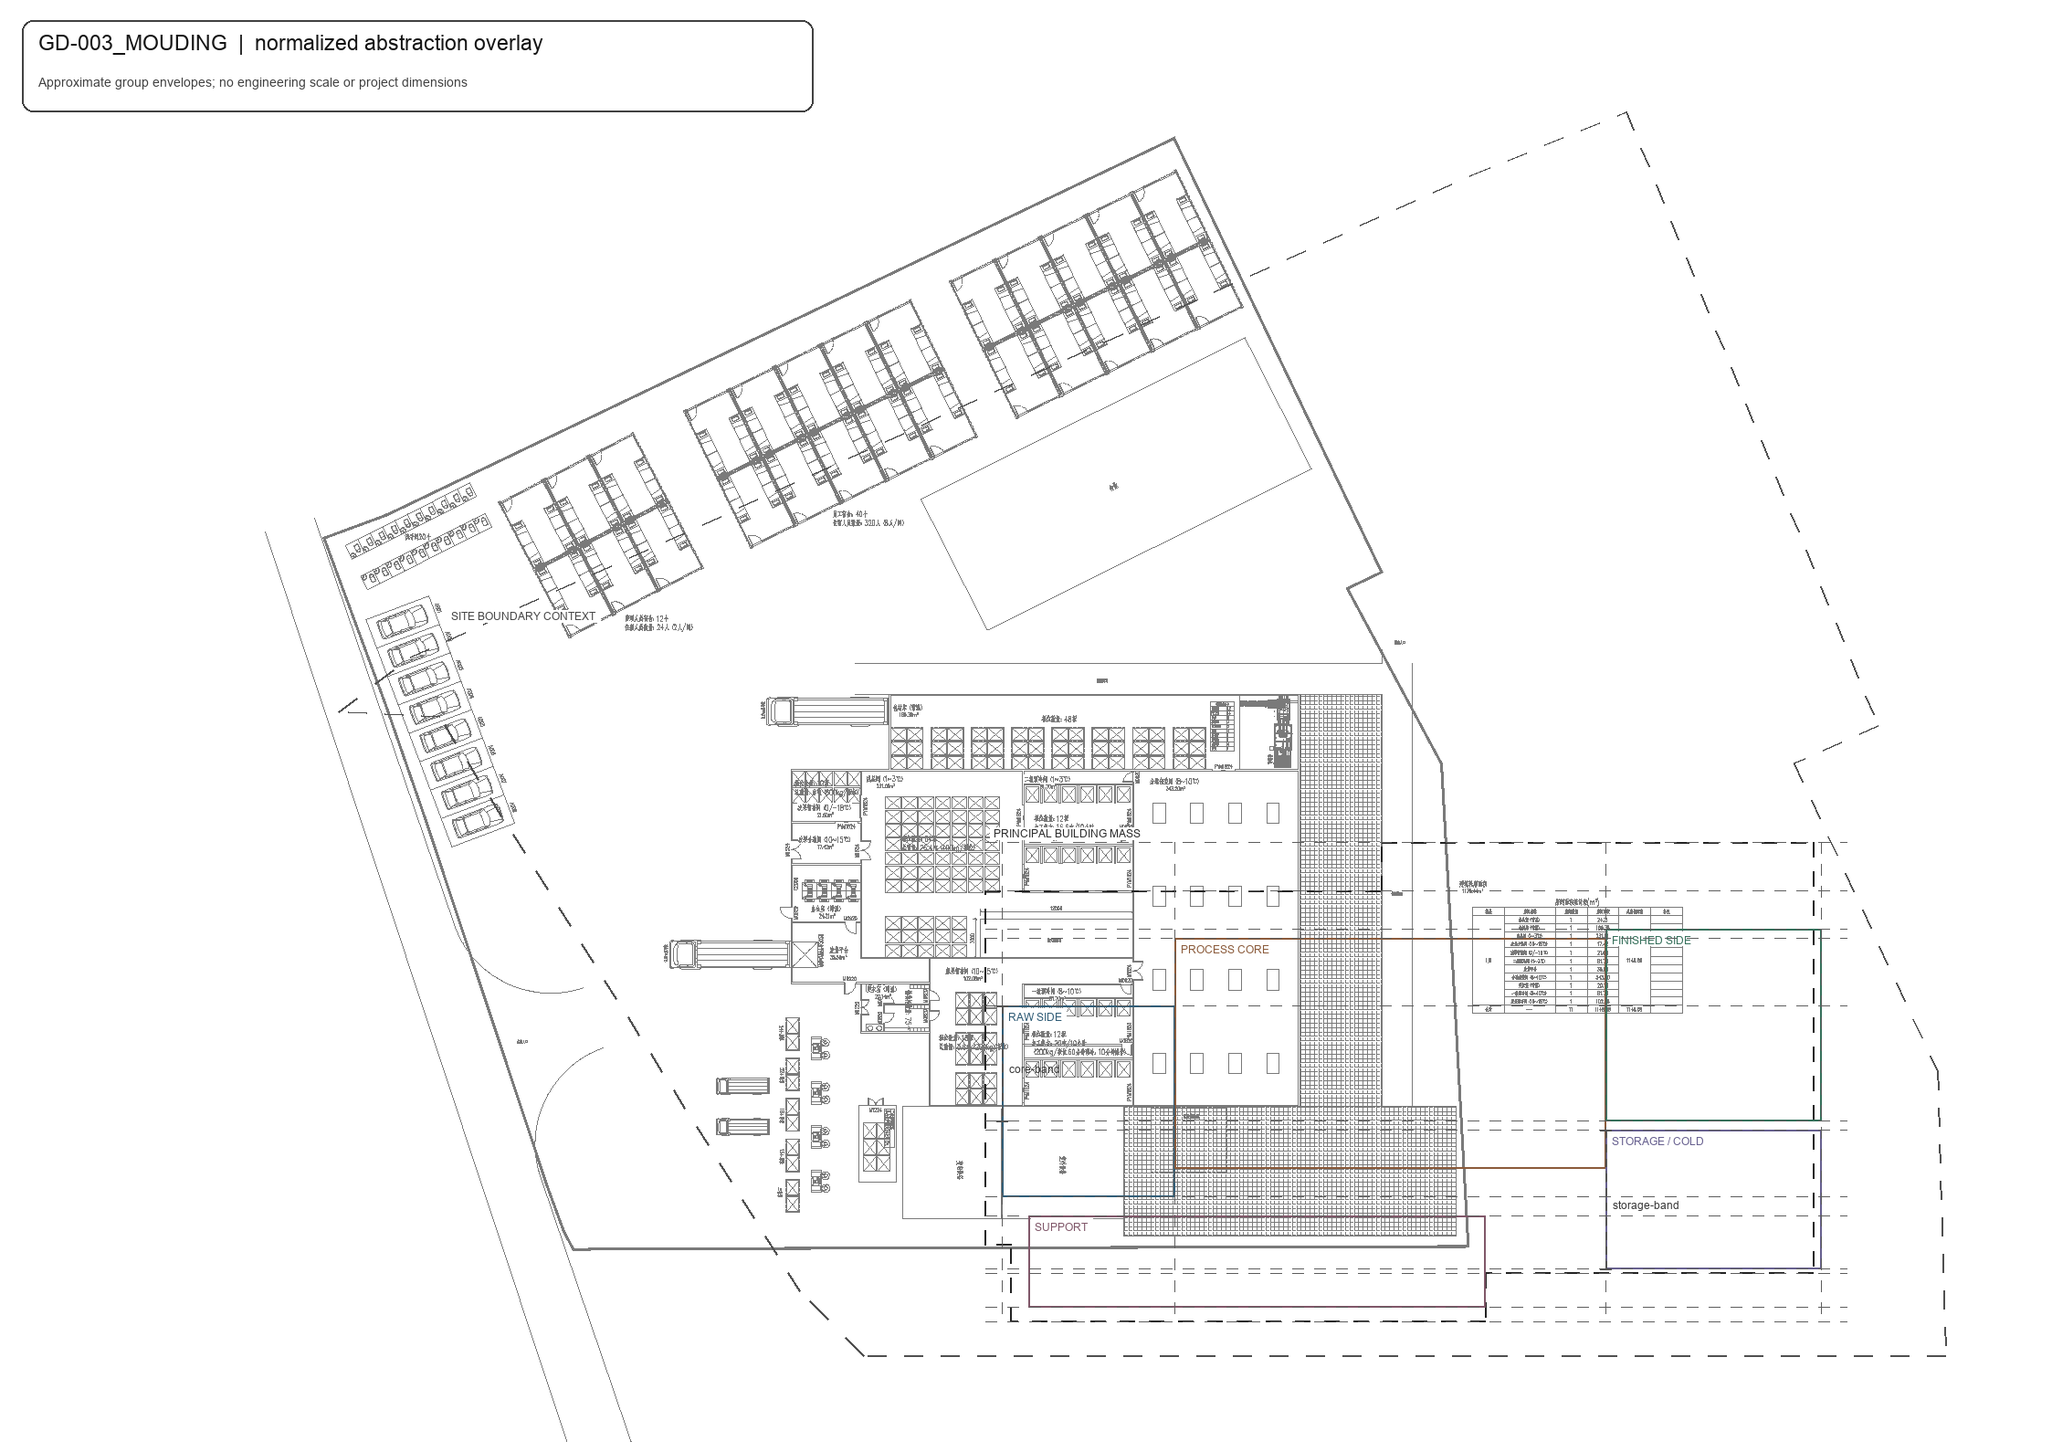
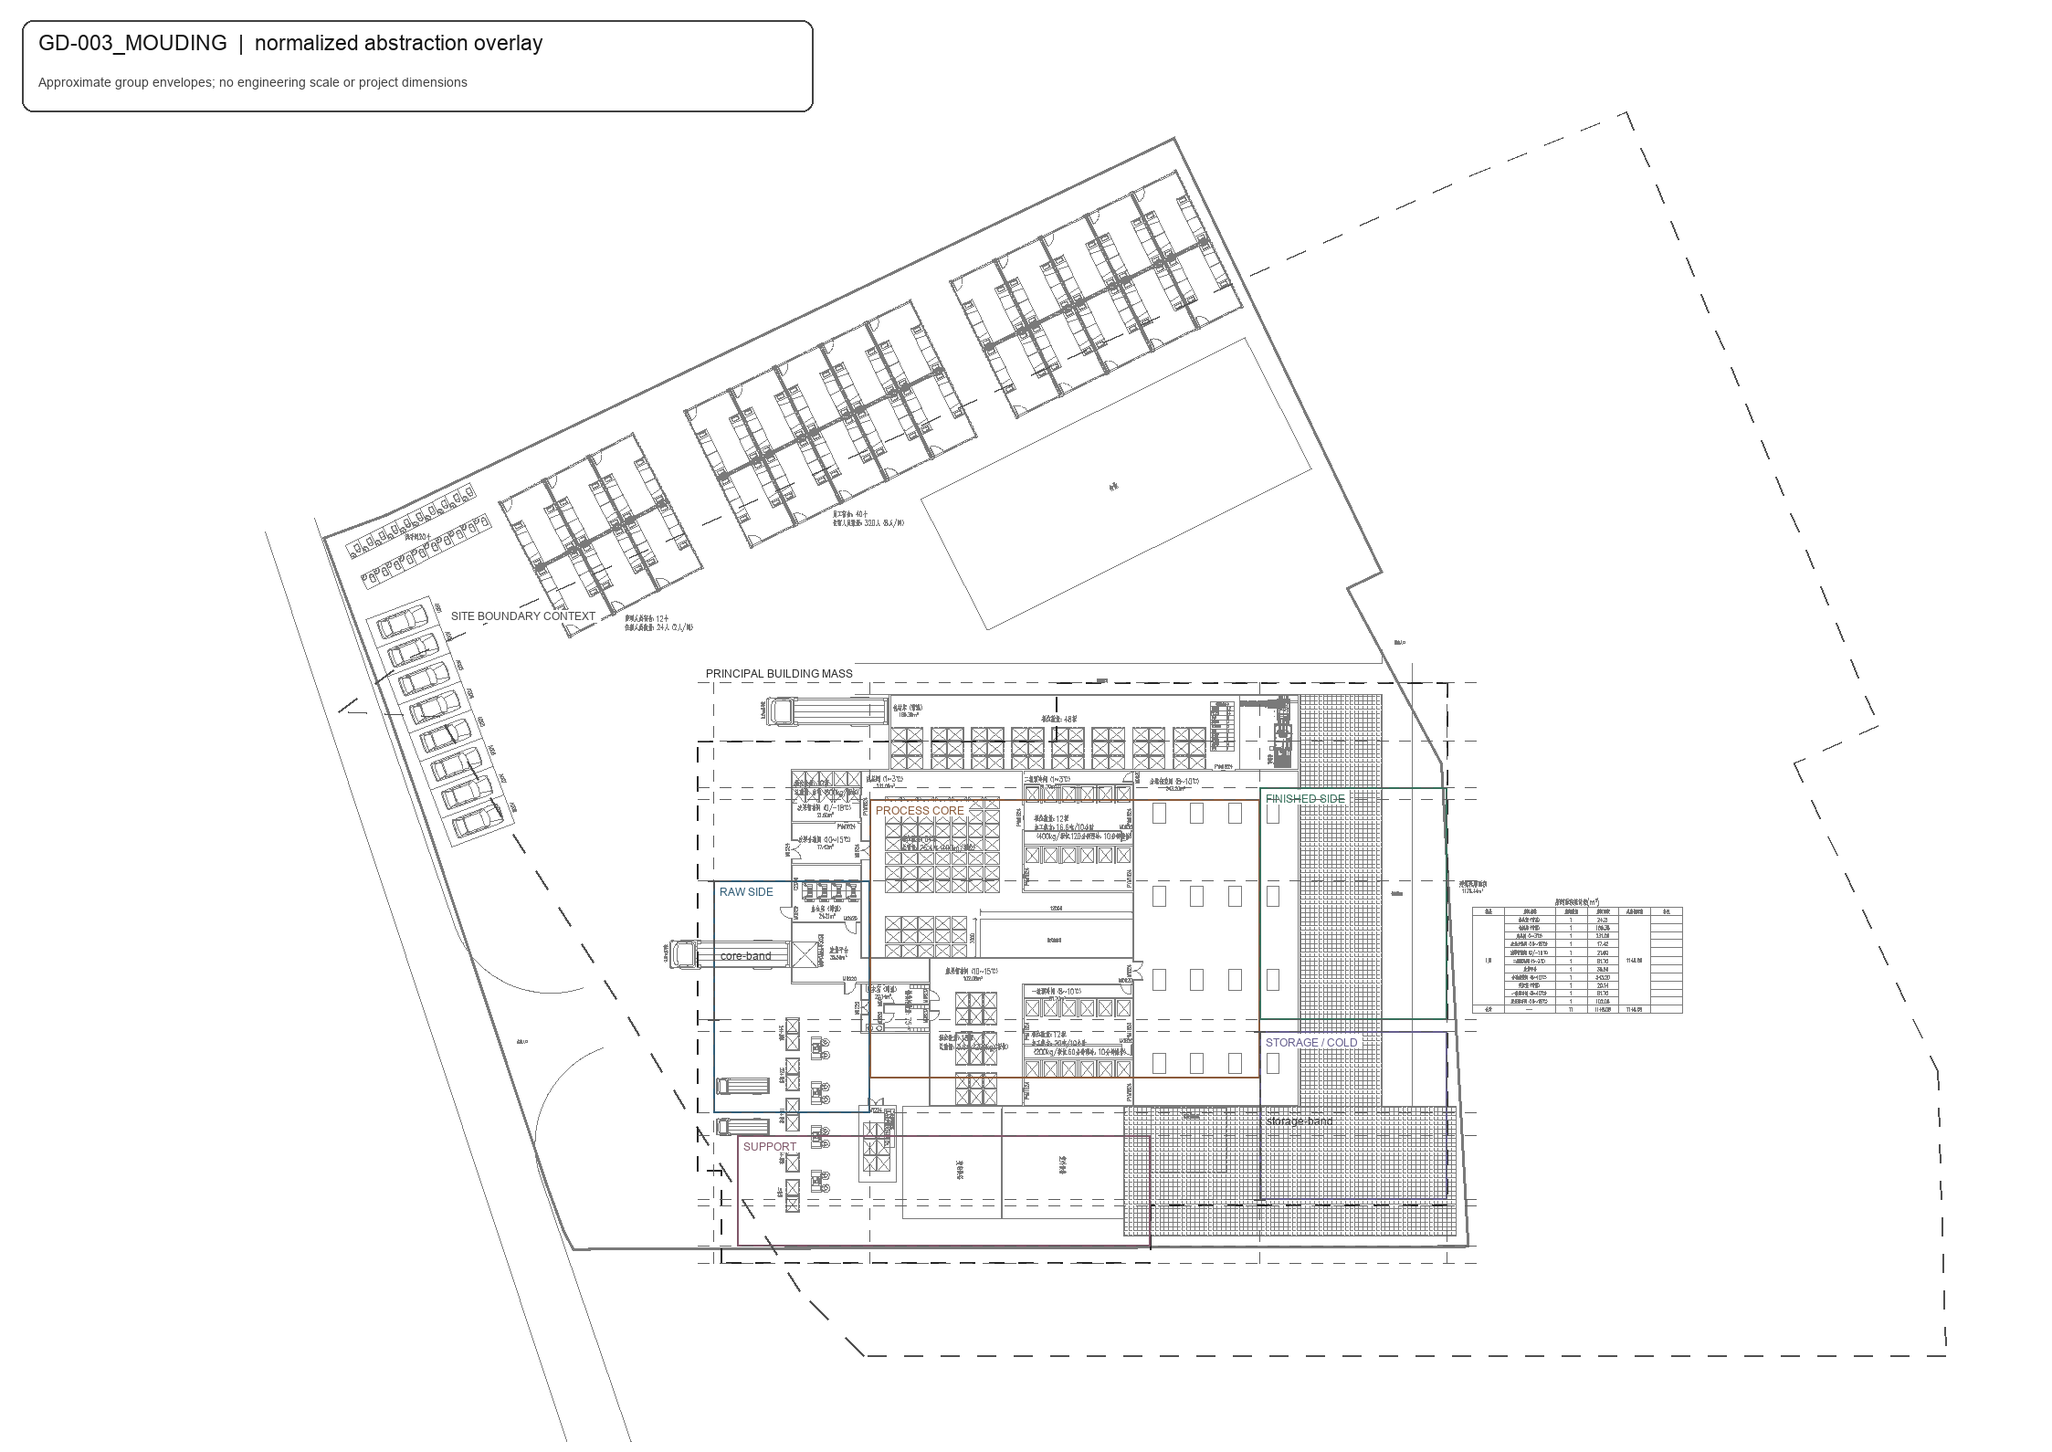
docs: align Mouding Golden overlay to principal mass

diff --git a/backend/tests/evaluation/test_v222_p0c_golden_layout_abstraction.py b/backend/tests/evaluation/test_v222_p0c_golden_layout_abstraction.py
@@ -3,6 +3,8 @@
 from __future__ import annotations
 
 import json
+from decimal import Decimal
+from itertools import pairwise
 from pathlib import Path
 from typing import Any
 
@@ -75,20 +77,122 @@ def test_mouding_keeps_site_constraint_separate_from_building_shape() -> None:
     assert reference["site_boundary_context"]["class"] == "IRREGULAR_SITE_CONTEXT"
     assert len(reference["site_boundary_context"]["polygons"][0]) > 4
     assert len(reference["building_outline"]["polygons"][0]) > 4
-    assert reference["principal_building_mass"]["source_geometry_ref"] == "building_outline.polygons"
+    assert (
+        reference["principal_building_mass"]["source_geometry_ref"] == "building_outline.polygons"
+    )
     assert reference_metrics(reference)["functional_grouping"] == "PASS_QUALITATIVE"
+
+
+def _inside_or_on_orthogonal_polygon(
+    point: tuple[Decimal, Decimal], polygon: list[list[object]]
+) -> bool:
+    px, py = point
+    vertices = [(Decimal(str(x)), Decimal(str(y))) for x, y in polygon]
+    inside = False
+    for index, (x1, y1) in enumerate(vertices):
+        x2, y2 = vertices[(index + 1) % len(vertices)]
+        if x1 == x2 and min(y1, y2) <= py <= max(y1, y2) and px == x1:
+            return True
+        if y1 == y2 and min(x1, x2) <= px <= max(x1, x2) and py == y1:
+            return True
+        if x1 == x2 and min(y1, y2) <= py < max(y1, y2) and x1 > px:
+            inside = not inside
+    return inside
+
+
+def _rect_within_orthogonal_polygon(rect: list[object], polygon: list[list[object]]) -> bool:
+    x, y, width, height = (Decimal(str(value)) for value in rect)
+    x2, y2 = x + width, y + height
+    vertices = [(Decimal(str(px)), Decimal(str(py))) for px, py in polygon]
+    corners = ((x, y), (x2, y), (x2, y2), (x, y2))
+    if not all(_inside_or_on_orthogonal_polygon(corner, polygon) for corner in corners):
+        return False
+    x_breaks = sorted({x, x2, *(px for px, _ in vertices if x < px < x2)})
+    y_breaks = sorted({y, y2, *(py for _, py in vertices if y < py < y2)})
+    return all(
+        _inside_or_on_orthogonal_polygon(((left + right) / 2, (top + bottom) / 2), polygon)
+        for left, right in pairwise(x_breaks)
+        for top, bottom in pairwise(y_breaks)
+    )
+
+
+def _local_rect_to_source_page(
+    rect: list[object], page_bbox: list[object]
+) -> tuple[Decimal, Decimal, Decimal, Decimal]:
+    left, top, right, bottom = (Decimal(str(value)) for value in page_bbox)
+    x, y, width, height = (Decimal(str(value)) for value in rect)
+    return (
+        left + x * (right - left),
+        top + y * (bottom - top),
+        left + (x + width) * (right - left),
+        top + (y + height) * (bottom - top),
+    )
+
+
+def _bbox_overlap_ratio(
+    first: tuple[Decimal, Decimal, Decimal, Decimal],
+    second: tuple[Decimal, Decimal, Decimal, Decimal],
+) -> Decimal:
+    left = max(first[0], second[0])
+    top = max(first[1], second[1])
+    right = min(first[2], second[2])
+    bottom = min(first[3], second[3])
+    intersection = max(Decimal(0), right - left) * max(Decimal(0), bottom - top)
+    area = (first[2] - first[0]) * (first[3] - first[1])
+    return intersection / area
+
+
+def test_mouding_major_groups_align_to_one_principal_building_source_bbox() -> None:
+    reference = load_reference("GD-003_MOUDING")
+    page_bbox = reference["normalization"]["primary_envelope_page_bbox_norm"]
+    assert reference["principal_building_mass"]["source_page_bbox_norm"] == page_bbox
+    outline = reference["building_outline"]["polygons"][0]
+    groups = reference["major_zone_rectangles"]
+    assert {group["functional_group"] for group in groups} >= {
+        "RAW_SIDE_GROUP",
+        "PROCESSING_CORE_GROUP",
+        "FINISHED_SIDE_GROUP",
+        "COLD_STORAGE_GROUP",
+        "SUPPORT_GROUP",
+    }
+    assert all(_rect_within_orthogonal_polygon(group["rect"], outline) for group in groups)
+
+
+def test_mouding_finished_and_storage_groups_stay_inside_mass_and_away_from_table() -> None:
+    reference = load_reference("GD-003_MOUDING")
+    page_bbox = reference["normalization"]["primary_envelope_page_bbox_norm"]
+    outline = reference["building_outline"]["polygons"][0]
+    furniture = next(
+        region
+        for region in reference["known_drawing_furniture_regions"]
+        if region["id"] == "RIGHT_PAGE_AREA_TABLE"
+    )
+    table_values = [Decimal(str(value)) for value in furniture["page_bbox_norm"]]
+    assert len(table_values) == 4
+    table_bbox = (table_values[0], table_values[1], table_values[2], table_values[3])
+    groups = reference["major_zone_rectangles"]
+    by_id = {group["id"]: group for group in groups}
+    for group in groups:
+        mapped_bbox = _local_rect_to_source_page(group["rect"], page_bbox)
+        assert _bbox_overlap_ratio(mapped_bbox, table_bbox) < Decimal("0.5")
+    for group_id in ("finished_side_bank", "secondary_storage_band"):
+        group = by_id[group_id]
+        assert _rect_within_orthogonal_polygon(group["rect"], outline)
+    assert furniture["engineering_authority"] is False
+    assert reference["reference_derived"] is True
+    assert reference["engineering_authority"] is False
+    assert reference["approximate_group_envelope"] is True
 
 
 def test_owner_corrections_make_zhuyuan_process_hall_and_annex_explicit() -> None:
     reference = load_reference("GD-001_ZHUYUAN")
-    assert reference["overlay_correction"]["task_id"] == (
-        "V2_2_2_P0C_OWNER_OVERLAY_CORRECTION_R1"
-    )
+    assert reference["overlay_correction"]["task_id"] == ("V2_2_2_P0C_OWNER_OVERLAY_CORRECTION_R1")
     assert reference["reference_derived"] is True
     assert reference["engineering_authority"] is False
     assert reference["approximate_group_envelope"] is True
     process = next(
-        group for group in reference["major_zone_rectangles"]
+        group
+        for group in reference["major_zone_rectangles"]
         if group["id"] == "dominant_processing_hall"
     )
     assert process["functional_group"] == "PROCESSING_CORE_GROUP"
@@ -103,15 +207,17 @@ def test_owner_corrections_make_zhuyuan_process_hall_and_annex_explicit() -> Non
     annex = reference["excluded_areas"][0]
     assert annex["kind"] == "ANNEX"
     assert annex["exclusion_reason"]
-    assert min(point[0] for point in annex["polygon_page_norm"]) > (
-        reference["normalization"]["primary_envelope_page_bbox_norm"][2]
+    assert (
+        min(point[0] for point in annex["polygon_page_norm"])
+        > (reference["normalization"]["primary_envelope_page_bbox_norm"][2])
     )
 
 
 def test_owner_correction_keeps_xiaoxiang_as_one_central_process_hub() -> None:
     reference = load_reference("GD-002_XIAOXIANG")
     process_groups = [
-        group for group in reference["major_zone_rectangles"]
+        group
+        for group in reference["major_zone_rectangles"]
         if group["functional_group"] == "PROCESSING_CORE_GROUP"
     ]
     assert len(process_groups) == 1
@@ -119,7 +225,8 @@ def test_owner_correction_keeps_xiaoxiang_as_one_central_process_hub() -> None:
     assert process_groups[0]["display_label"] == "CENTRAL PROCESS HUB"
     assert process_groups[0]["rect"][2] > process_groups[0]["rect"][3]
     cold_groups = [
-        group for group in reference["major_zone_rectangles"]
+        group
+        for group in reference["major_zone_rectangles"]
         if group["functional_group"] == "COLD_STORAGE_GROUP"
     ]
     assert {group["id"] for group in cold_groups} == {
@@ -132,9 +239,7 @@ def test_owner_correction_keeps_xiaoxiang_as_one_central_process_hub() -> None:
 
 def test_outline_classifier_distinguishes_rectangle_l_shape_and_reflex_from_notch() -> None:
     rectangle = orthogonal_outline_facts([[0, 0], [1, 0], [1, 1], [0, 1]])
-    simple_l = orthogonal_outline_facts(
-        [[0, 0], [1, 0], [1, 0.4], [0.4, 0.4], [0.4, 1], [0, 1]]
-    )
+    simple_l = orthogonal_outline_facts([[0, 0], [1, 0], [1, 0.4], [0.4, 0.4], [0.4, 1], [0, 1]])
     u_outline = orthogonal_outline_facts(
         [[0, 0], [1, 0], [1, 1], [0.7, 1], [0.7, 0.3], [0.3, 0.3], [0.3, 1], [0, 1]]
     )
@@ -144,9 +249,15 @@ def test_outline_classifier_distinguishes_rectangle_l_shape_and_reflex_from_notc
     assert u_outline["reflex_corner_count"] == 2
     assert u_outline["notch_count"] == 1
     assert u_outline["notch_count"] != u_outline["reflex_corner_count"]
-    assert classify_outline_v1(simple_l, site_constrained_exception=True) == "IRREGULAR_SITE_CONSTRAINED"
+    assert (
+        classify_outline_v1(simple_l, site_constrained_exception=True)
+        == "IRREGULAR_SITE_CONSTRAINED"
+    )
     assert classify_outline_v1(simple_l, narrow_neck_confirmed=True) == "NARROW_NECK"
-    assert classify_outline_v1(simple_l, owner_confirmed_unmotivated_appendage=True) == "ISOLATED_APPENDAGE"
+    assert (
+        classify_outline_v1(simple_l, owner_confirmed_unmotivated_appendage=True)
+        == "ISOLATED_APPENDAGE"
+    )
     assert classify_outline_v1(rectangle, component_count=2) == "MULTI_COMPONENT"
 
 
@@ -162,10 +273,20 @@ def test_golden_overlay_review_pack_is_present_and_not_runtime_input() -> None:
         assert png_path.is_file() and png_path.stat().st_size > 0
 
 
-def test_xinzhao_negative_uses_existing_structured_evidence_without_inventing_missing_facts() -> None:
-    matrix_path = Path(__file__).resolve().parents[2] / ".." / "docs/tasks/evidence/v2_2_2_p0c/calibration-matrix.json"
+def test_xinzhao_negative_uses_existing_structured_evidence_without_inventing_missing_facts() -> (
+    None
+):
+    matrix_path = (
+        Path(__file__).resolve().parents[2]
+        / ".."
+        / "docs/tasks/evidence/v2_2_2_p0c/calibration-matrix.json"
+    )
     matrix: dict[str, Any] = json.loads(matrix_path.resolve().read_text(encoding="utf-8"))
-    row = next(item for item in matrix["fixtures"] if item["fixture_id"] == "XINZHAO_20T_SITE_LAYOUT_INPUT_V3_OWNER_ACCEPTANCE")
+    row = next(
+        item
+        for item in matrix["fixtures"]
+        if item["fixture_id"] == "XINZHAO_20T_SITE_LAYOUT_INPUT_V3_OWNER_ACCEPTANCE"
+    )
     assert row["owner_label"] == "FAIL"
     assert row["grid_alignment_rate"] == "0.4"
     assert row["bounding_rectangle_occupancy"] == "0.5792454589543597230802131883"

diff --git a/backend/tests/architecture/test_v222_p0c_golden_layout_abstraction.py b/backend/tests/architecture/test_v222_p0c_golden_layout_abstraction.py
@@ -11,6 +11,8 @@ from typing import Any
 ROOT = Path(__file__).resolve().parents[3]
 P0C_BASE = "9bc00b6157bb549f1fd3c7112cfc30f29452b8e0"
 CORRECTION_BASE = "f1a8faed7ca700caab66166550b6f42827ff72f5"
+GD003_ALIGNMENT_BASE = "7799442d20bd502fe10b4e18c0bac64e996c1b72"
+GD003_ALIGNMENT_TASK = "V2_2_2_P0C_GD003_FINAL_OVERLAY_ALIGNMENT_R1"
 EVIDENCE_REL = Path("docs/tasks/evidence/v2_2_2_p0c")
 EVIDENCE = ROOT / EVIDENCE_REL
 ALLOWED_PATHS = {
@@ -140,10 +142,10 @@ def test_overlay_pack_contains_five_viewable_pngs_without_original_pdf_assets() 
     manifest = _json(EVIDENCE / "overlay-review-pack.json")
     assert manifest["abstraction_visual_overlay_created"] is True
     assert manifest["owner_visual_review"] == "PENDING"
-    assert manifest["correction_task_id"] == "V2_2_2_P0C_OWNER_OVERLAY_CORRECTION_R1"
+    assert manifest["correction_task_id"] == GD003_ALIGNMENT_TASK
     assert manifest["owner_review_by_reference"] == {
-        "GD-001_ZHUYUAN": "PENDING",
-        "GD-002_XIAOXIANG": "PENDING",
+        "GD-001_ZHUYUAN": "PASS",
+        "GD-002_XIAOXIANG": "PASS",
         "GD-003_MOUDING": "PENDING",
         "GD-004_SHUANGLONGYING": "PASS",
         "GD-005_PANLONG": "PASS",
@@ -163,6 +165,46 @@ def test_overlay_pack_contains_five_viewable_pngs_without_original_pdf_assets() 
             assert item["reference_derived"] is True
             assert item["engineering_authority"] is False
             assert item["approximate_group_envelope"] is True
+
+
+def test_gd003_alignment_correction_is_isolated_from_other_owner_reviewed_overlays() -> None:
+    subprocess.run(
+        ["git", "merge-base", "--is-ancestor", GD003_ALIGNMENT_BASE, "HEAD"],
+        cwd=ROOT,
+        check=True,
+    )
+    for abstraction_name, png_name in (
+        ("GD-001_ZHUYUAN.normalized-layout.json", "gd-001-zhuyuan-normalized-overlay.png"),
+        ("GD-002_XIAOXIANG.normalized-layout.json", "gd-002-xiaoxiang-normalized-overlay.png"),
+        (
+            "GD-004_SHUANGLONGYING.normalized-layout.json",
+            "gd-004-shuanglongying-normalized-overlay.png",
+        ),
+        ("GD-005_PANLONG.normalized-layout.json", "gd-005-panlong-normalized-overlay.png"),
+    ):
+        subprocess.run(
+            [
+                "git",
+                "diff",
+                "--quiet",
+                GD003_ALIGNMENT_BASE,
+                "--",
+                str(EVIDENCE_REL / abstraction_name),
+                str(EVIDENCE_REL / png_name),
+            ],
+            cwd=ROOT,
+            check=True,
+        )
+    reference = _json(EVIDENCE / "GD-003_MOUDING.normalized-layout.json")
+    assert reference["overlay_correction"]["task_id"] == GD003_ALIGNMENT_TASK
+    assert (
+        reference["normalization"]["primary_envelope_page_bbox_norm"]
+        == (reference["principal_building_mass"]["source_page_bbox_norm"])
+    )
+    assert reference["known_drawing_furniture_regions"]
+    assert reference["reference_derived"] is True
+    assert reference["engineering_authority"] is False
+    assert reference["approximate_group_envelope"] is True
 
 
 def test_owner_accepted_gd004_and_gd005_abstractions_and_pngs_are_unchanged() -> None:

diff --git a/docs/tasks/V2_2_2-P0C-golden-layout-abstraction-and-calibration.md b/docs/tasks/V2_2_2-P0C-golden-layout-abstraction-and-calibration.md
@@ -55,11 +55,11 @@ interchangeable with exact P0 zone-boundary metrics.
 Five original-page PNG overlays are stored under
 [`evidence/v2_2_2_p0c/`](evidence/v2_2_2_p0c/). They fade the source page and
 show approximate principal mass/group envelopes, candidate axis families, and
-depth-family markers. The first three overlays have been corrected under
-`V2_2_2_P0C_OWNER_OVERLAY_CORRECTION_R1` and are pending a new Owner review;
-GD-004 and GD-005 remain unchanged and retain their prior `PASS` review. The
-overlays are not engineering drawings or runtime fixtures. The source PDFs are
-not embedded in the repository.
+depth-family markers. GD-001 and GD-002 passed Owner overlay review. GD-003 is
+being corrected under `V2_2_2_P0C_GD003_FINAL_OVERLAY_ALIGNMENT_R1`; its final
+overlay is pending Owner review. GD-004 and GD-005 remain unchanged and retain
+their prior `PASS` review. The overlays are not engineering drawings or
+runtime fixtures. The source PDFs are not embedded in the repository.
 
 ## Owner overlay correction R1
 
@@ -93,9 +93,27 @@ OWNER_VISUAL_OVERLAY_REVIEW=PENDING
   retained.
 
 The overlay manifest and calibration matrix separate the review state of each
-image: GD-001/002/003 are pending the correction review; GD-004/005 remain
-accepted. The changed outlines and labels are only visual evidence and do not
-make any numeric threshold ready.
+image: GD-001/002 are accepted, GD-003 is pending the final alignment review,
+and GD-004/005 remain accepted. The changed outlines and labels are only visual
+evidence and do not make any numeric threshold ready.
+
+## GD-003 final overlay alignment correction
+
+The Owner accepted the corrected GD-001 and GD-002 overlays and rejected only
+the GD-003 placement of its finished-side and storage/cold group envelopes.
+The GD-003 correction uses one shared, approximate source-page bounding box
+for the principal building mass and every major group. The finished-side and
+storage/cold envelopes are constrained to the stepped principal-mass outline;
+an evidence-only trace of the right-side area table is used to prevent those
+envelopes from being mapped onto page furniture. If a group cannot be placed
+reliably inside the visible principal mass, it must be marked unavailable,
+not drawn in blank page space.
+
+These are manual visual traces from the source page only. They do not read,
+copy, or infer engineering dimensions, and the table trace is not engineering
+authority. GD-001, GD-002, GD-004, and GD-005 evidence remains byte-identical.
+GD-003 remains `OWNER_VISUAL_OVERLAY_REVIEW=PENDING` until the Owner reviews
+the regenerated single-image overlay.
 
 ## What the references support
 
